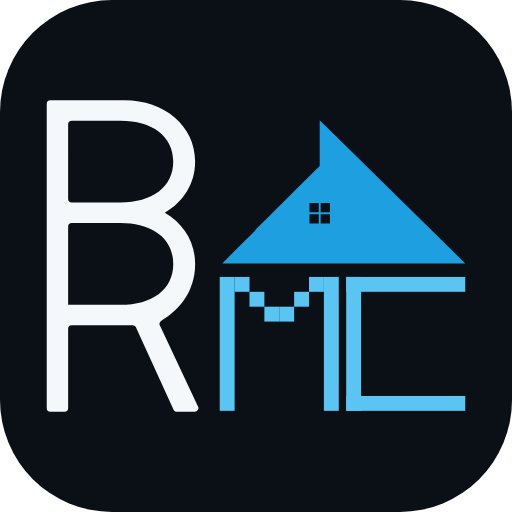
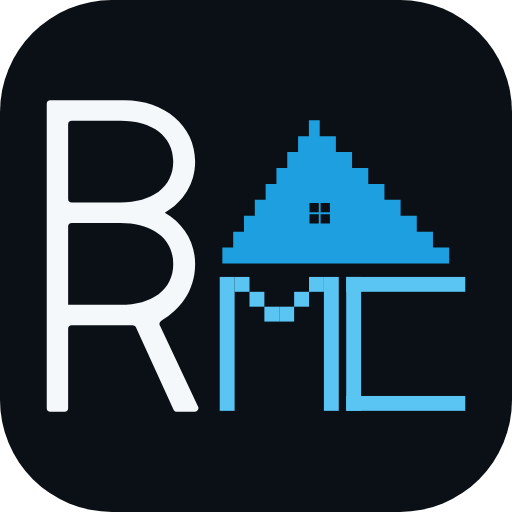
Step the Minecraft roof onto the block grid
The mark had `MC` drawn on a 16u block grid sitting under the parent's smooth
gable — two drawings in one lockup, and the join showed. The roof is now stepped
onto the same grid: same notched apex, same 45° slopes, same knockout window,
built to the rule the caps are built to.

brAIn is untouched — byte-identical SVGs, byte-identical PNGs — because its
smooth roof over smooth caps was never the problem.

The tests said "every branding SVG carries the same gable path", which was true
when the two apps shared a roof and is now wrong. That splits in two:

- `test_the_mark_is_the_gable` — each app's roof is one path, used everywhere
  that app appears. A second hand-drawn copy is still how a mark drifts.
- `test_each_app_draws_only_its_own_roof` — and neither app may carry the
  other's. A Minecraft square built from a brAIn tile would have passed every
  other check in the file; it fails this one, and it caught the Minecraft panel
  favicon still holding the smooth roof while I was making this change.

The three `bruh-minecraft-glyph-*.svg` files in the kit are deliberately not
installed. They are the stepped roof on its own, with no BR ligature — which is
the one thing this repo committed to not shipping. Nothing here would reference
them, and `test_no_asset_is_the_gable_alone` would fail if they were added.

BRUH Minecraft 1.14.5 → 1.14.6; the artwork ships inside the add-on, so Home
Assistant needs the bump to pull it.
[…]

Changed region(s): [[0.4375, 0.2188, 0.9062, 0.5312]]

diff --git a/bruh-minecraft-server/panel/index.html b/bruh-minecraft-server/panel/index.html
@@ -19,7 +19,7 @@
              says nothing about which add-on this is. It carries its own dark ground
              and corner radius, so it needs no plate behind it and reads the same on
              a light panel as a dark one. Source: branding/minecraft/. -->
-        <svg class="logo" viewBox="0 0 512 512" role="img" aria-label="BRUH Minecraft"><rect width="512" height="512" rx="112" fill="#0B1016"></rect><g transform="translate(46.75 100.23) scale(0.93)"><path d="M159.55,176c0-23.95-12.76-43.53-32.59-55,19.83-11.43,32.59-31.09,32.59-55,0-38.69-33.29-66-75.87-66H4A4,4,0,0,0,0,4V331a4,4,0,0,0,4,4H19a4,4,0,0,0,4-4V245.83A3.84,3.84,0,0,1,26.83,242H92.4a3.93,3.93,0,0,1,3.22,1.69l41,89.62a3.9,3.9,0,0,0,3.21,1.69h19.27a4,4,0,0,0,3.28-6.29L121.81,242.6c-1.57-2.24-.18-4.71,2.17-6.13C141.54,225.88,159.55,206.48,159.55,176ZM23,26a4,4,0,0,1,4-4H79.36C113.11,22,136,38.27,136,66s-22.9,44-56.65,44H27a4,4,0,0,1-4-4ZM79.36,220H23V136a4,4,0,0,1,4-4H79.36c33.75,0,56.65,16.27,56.65,44S113.11,220,79.36,220Z" fill="#F4F8FB" fill-rule="evenodd"></path><path d="M293.5,21.6V70.83S189.86,174.05,188.83,175.5H450.09Zm-1,110.9h-10v-10h10Zm0-12h-10v-10h10Zm12,12h-10v-10h10Zm-10-12v-10h10v10Z" fill="#1E9FE0" fill-rule="evenodd"></path><rect x="186" y="190" width="16" height="144" fill="#5AC4F2"></rect><rect x="298" y="190" width="16" height="144" fill="#5AC4F2"></rect><rect x="202" y="190" width="16" height="16" fill="#5AC4F2"></rect><rect x="282" y="190" width="16" height="16" fill="#5AC4F2"></rect><rect x="218" y="206" width="16" height="16" fill="#5AC4F2"></rect><rect x="266" y="206" width="16" height="16" fill="#5AC4F2"></rect><rect x="234" y="222" width="16" height="16" fill="#5AC4F2"></rect><rect x="250" y="222" width="16" height="16" fill="#5AC4F2"></rect><rect x="322" y="190" width="128" height="16" fill="#5AC4F2"></rect><rect x="322" y="190" width="16" height="144" fill="#5AC4F2"></rect><rect x="322" y="318" width="128" height="16" fill="#5AC4F2"></rect></g></svg>
+        <svg class="logo" viewBox="0 0 512 512" role="img" aria-label="BRUH Minecraft"><rect width="512" height="512" rx="112" fill="#0B1016"></rect><g transform="translate(46.75 100.23) scale(0.93)"><path d="M159.55,176c0-23.95-12.76-43.53-32.59-55,19.83-11.43,32.59-31.09,32.59-55,0-38.69-33.29-66-75.87-66H4A4,4,0,0,0,0,4V331a4,4,0,0,0,4,4H19a4,4,0,0,0,4-4V245.83A3.84,3.84,0,0,1,26.83,242H92.4a3.93,3.93,0,0,1,3.22,1.69l41,89.62a3.9,3.9,0,0,0,3.21,1.69h19.27a4,4,0,0,0,3.28-6.29L121.81,242.6c-1.57-2.24-.18-4.71,2.17-6.13C141.54,225.88,159.55,206.48,159.55,176ZM23,26a4,4,0,0,1,4-4H79.36C113.11,22,136,38.27,136,66s-22.9,44-56.65,44H27a4,4,0,0,1-4-4ZM79.36,220H23V136a4,4,0,0,1,4-4H79.36c33.75,0,56.65,16.27,56.65,44S113.11,220,79.36,220Z" fill="#F4F8FB" fill-rule="evenodd"></path><path d="M188.83,175.5V158.4H200.46V141.3H212.09V124.2H223.72V107.1H235.35V90H246.98V72.9H258.61V55.8H270.24V38.7H281.87V21.6H293.5H293.5V38.7H310.9V55.8H328.3V72.9H345.7V90H363.1V107.1H380.49V124.2H397.89V141.3H415.29V158.4H432.69V175.5H450.09ZM282.5,110.5h10v10h-10Zm12,0h10v10h-10Zm-12,12h10v10h-10Zm12,0h10v10h-10Z" fill="#1E9FE0" fill-rule="evenodd"></path><rect x="186" y="190" width="16" height="144" fill="#5AC4F2"></rect><rect x="298" y="190" width="16" height="144" fill="#5AC4F2"></rect><rect x="202" y="190" width="16" height="16" fill="#5AC4F2"></rect><rect x="282" y="190" width="16" height="16" fill="#5AC4F2"></rect><rect x="218" y="206" width="16" height="16" fill="#5AC4F2"></rect><rect x="266" y="206" width="16" height="16" fill="#5AC4F2"></rect><rect x="234" y="222" width="16" height="16" fill="#5AC4F2"></rect><rect x="250" y="222" width="16" height="16" fill="#5AC4F2"></rect><rect x="322" y="190" width="128" height="16" fill="#5AC4F2"></rect><rect x="322" y="190" width="16" height="144" fill="#5AC4F2"></rect><rect x="322" y="318" width="128" height="16" fill="#5AC4F2"></rect></g></svg>
         <div>
           <h1>BRUH Minecraft</h1>
           <p id="brand-subtitle">Loading…</p>

diff --git a/tests/test_brain_addon.py b/tests/test_brain_addon.py
@@ -140,16 +140,45 @@ class TestPanelBranding(unittest.TestCase):
                      "M362,198 L377,198 L486,333"):  # N diagonal
             self.assertIn(part, self.html, "the wordmark lost a glyph")
 
+    # brAIn's roof is the parent's own path, unmodified. Minecraft's is the
+    # same roof redrawn on the block grid — same apex, same 45° slopes, same
+    # knockout window, stepped instead of smooth — so that the roof and the MC
+    # caps are built to one rule rather than two.
+    SMOOTH_GABLE = "M293.5,21.6V70.83S189.86,174.05,188.83,175.5H450.09Z"
+    BLOCKY_GABLE = "M188.83,175.5V158.4H200.46"
+
     def test_the_mark_is_the_gable(self):
-        """The brand mark is a gable lifted from the parent BRUH logo, and it
-        is the same path everywhere — inline in the bar, in the favicon, in
-        every rendered PNG. A second hand-drawn copy is how a mark drifts."""
-        gable = "M293.5,21.6V70.83S189.86,174.05,188.83,175.5H450.09Z"
-        self.assertIn(gable, self.html, "the top bar isn't drawing the gable")
-        self.assertIn(gable, (PANEL / "favicon.svg").read_text())
-        for svg in sorted((BASE_DIR / "branding").glob("*/*.svg")):
-            self.assertIn(gable, svg.read_text(),
-                          f"{svg.name} does not carry the shared gable path")
+        """Each app's roof is one path, used everywhere that app appears —
+        inline in the bar, in the favicon, in every rendered PNG. A second
+        hand-drawn copy is how a mark drifts.
+
+        The two apps do not share the *same* roof any more, and that is the
+        point: an app whose caps are blocky and whose roof is smooth is two
+        drawings in one lockup."""
+        self.assertIn(self.SMOOTH_GABLE, self.html, "the top bar isn't drawing the gable")
+        self.assertIn(self.SMOOTH_GABLE, (PANEL / "favicon.svg").read_text())
+
+        for app, gable in (("brain", self.SMOOTH_GABLE), ("minecraft", self.BLOCKY_GABLE)):
+            for svg in sorted((BASE_DIR / "branding" / app).glob("*.svg")):
+                self.assertIn(gable, svg.read_text(),
+                              f"{svg.name} does not carry {app}'s gable path")
+
+    def test_each_app_draws_only_its_own_roof(self):
+        """The blocky roof belongs to Minecraft and the smooth one to brAIn.
+        Mixing them is the failure this catches: a Minecraft square built from
+        a brAIn tile would pass every other check here."""
+        for app, mine, theirs in (("brain", self.SMOOTH_GABLE, self.BLOCKY_GABLE),
+                                  ("minecraft", self.BLOCKY_GABLE, self.SMOOTH_GABLE)):
+            for svg in sorted((BASE_DIR / "branding" / app).glob("*.svg")):
+                body = svg.read_text()
+                self.assertIn(mine, body, f"{svg.name} lost its own roof")
+                self.assertNotIn(theirs, body, f"{svg.name} is wearing the other app's roof")
+
+        mc_favicon = (BASE_DIR / "bruh-minecraft-server" / "panel" / "favicon.svg").read_text()
+        self.assertIn(self.BLOCKY_GABLE, mc_favicon,
+                      "the Minecraft favicon is not the blocky roof")
+        self.assertNotIn(self.SMOOTH_GABLE, mc_favicon,
+                         "the Minecraft favicon is wearing brAIn's roof")
 
     def test_no_asset_is_the_gable_alone(self):
         """The gable is the *family* mark: it says BRUH and says nothing about
@@ -180,9 +209,10 @@ class TestPanelBranding(unittest.TestCase):
                 self.assertTrue(path.exists(), f"missing {path.relative_to(BASE_DIR)}")
 
     def test_the_two_apps_are_told_apart_by_their_caps(self):
-        """What distinguishes the marks is the small caps, not the roof. brAIn
-        sets AIN smooth and keeps the parent's signal rules; Minecraft sets MC
-        on a 16u block grid and drops the signal so the blocks carry it alone.
+        """What distinguishes the marks is the drawing of the small caps and
+        the roof together. brAIn sets AIN smooth over the parent's smooth gable
+        and keeps its signal rules; Minecraft sets MC on a 16u block grid under
+        a stepped roof, and drops the signal so the blocks carry it alone.
         Swapping either is how the two apps stop being distinguishable."""
         brain = (BASE_DIR / "branding" / "brain" / "brain-logo-ondark.svg").read_text()
         mc = (BASE_DIR / "branding" / "minecraft" / "bruh-minecraft-logo-ondark.svg").read_text()

diff --git a/CLAUDE.md b/CLAUDE.md
@@ -30,7 +30,7 @@ BRUH Terminal (`bruh-claude-terminal/`) and BRUH Insights (`bruh-insights/`) wer
 - **Deleted cards do not come back.** There is no restore list: brAIn proposes the cards a given home should have, so the answer to "I want that card again" is to ask for it and let brAIn build it for the house it now knows. Shipped categories are still `hidden` under the hood because their definitions live in the code, but that is a mechanism, not an offer.
 - **Naming**: prefer `brain`/`ha` over `claude` in anything we own. `CLAUDE.md`, `CLAUDE_CONFIG_DIR`, the `claude` user, and the `claude-run` wrapper keep the name because they *are* Claude Code's file, env var, user, and binary. Everything else (`panel/engine.py`, `scripts/brain-*.sh`) is brAIn-named.
 
-Shared brand sources live in `branding/brain/` and `branding/minecraft/` (twelve SVGs each, plus `render.mjs`, which regenerates every PNG in the repo) and `brands/` (home-assistant/brands submission assets); cross-add-on tests live in `tests/`. Both marks are the same lockup — the parent's BR ligature and its gable, which doubles as the `A` — and what tells the two apps apart is the small caps: brAIn sets `AIN` smooth and keeps the parent's signal rules, BRUH Minecraft sets `MC` on a 16u block grid and drops the signal so the blocks carry it. Never redraw either, and never recolour the roof away from azure. **Nothing ships the gable on its own** — not an add-on icon, not a favicon, not a panel header. The roof is the family mark; it says BRUH and says nothing about which add-on you are looking at, so two add-ons wearing it in the same sidebar are two add-ons nobody can tell apart. That is what the square lockups are for, and `test_no_asset_is_the_gable_alone` is what keeps it true. The panel's top bar carries the full wordmark inline, split into `.wm-ink` / `.wm-roof` / `.wm-ai` / `.wm-signal` so one file serves a light and a dark bar.
+Shared brand sources live in `branding/brain/` and `branding/minecraft/` (twelve SVGs each, plus `render.mjs`, which regenerates every PNG in the repo) and `brands/` (home-assistant/brands submission assets); cross-add-on tests live in `tests/`. Both marks are the same lockup — the parent's BR ligature, and a gable that doubles as the `A` — and what tells the two apps apart is how the roof and the small caps are *drawn*: brAIn keeps the parent's smooth gable, sets `AIN` smooth, and carries its signal rules; BRUH Minecraft steps the same roof onto a 16u block grid, sets `MC` on it, and drops the signal so the blocks carry it. The two roofs are deliberately different paths — a lockup with blocky caps under a smooth roof is two drawings, and `test_each_app_draws_only_its_own_roof` is what stops one app wearing the other's. Never redraw either, and never recolour the roof away from azure. **Nothing ships the gable on its own** — not an add-on icon, not a favicon, not a panel header. The roof is the family mark; it says BRUH and says nothing about which add-on you are looking at, so two add-ons wearing it in the same sidebar are two add-ons nobody can tell apart. That is what the square lockups are for, and `test_no_asset_is_the_gable_alone` is what keeps it true. The panel's top bar carries the full wordmark inline, split into `.wm-ink` / `.wm-roof` / `.wm-ai` / `.wm-signal` so one file serves a light and a dark bar.
 
 **The top bar has two shapes and no third.** At ≥1240px it is one 56px row; below that it is the two-row bar — status and actions on top, the five tabs on a full-width strip beneath with each name under its icon. There was briefly a third band (960–1239px: one row, labels deleted, tabs shrunk to glyphs) and it was the worst possible one to have, because it is what a laptop with the HA sidebar open renders at — the compromise shape was the one most people saw, and widening the window made the tabs grow. **No width gets a row of bare glyphs.** Nothing in the bar may shrink (`.topbar > * { flex: none }`), so a fit is binary and an overflow is something a test can see; nothing hides its own words to fit, either. What gives way is the row, not the label. Tabs cap at 168px and centre so a 1200px strip isn't five 240px targets around a 20px glyph. Every target is ≥44px (chips ≥40px); adding anything to the bar moves the measured widths, so re-run `node tests/manual/measure-topbar.mjs` (Playwright; `CHROMIUM_PATH` if the browser isn't where it expects) and take the breakpoints from what it reports rather than guessing. It measures three bar states per width (running / paused / failed login) because none is a superset of the others, and it fails on any target under the floor as well as on overflow. Panel heights come from `--bar-h`, which the panel remeasures at runtime. **A status chip that is permanently green does not belong there** — the auth chip renders only for trouble, and the space it used to hold pays for the usage pill's second number (`Session x% · Week y%`, each labelled in the bar).
 

diff --git a/branding/README.md b/branding/README.md
@@ -27,7 +27,7 @@ unmodified from `bruh-logo-dark.svg`:
 | Element | Source |
 | --- | --- |
 | `BR` ligature | the parent's own single path — B stacked on R, one continuous stem, the bottom of the B is the top of the R |
-| Gable | the parent's own roof path — notched asymmetric apex, 45° slopes, 2×2 window as a knockout |
+| Gable | the parent's own roof — notched asymmetric apex, 45° slopes, 2×2 window as a knockout. brAIn uses the path unmodified; BRUH Minecraft steps it onto the 16u block grid, same apex and same slopes |
 
 What identifies each app is the **treatment of the small caps**, set on the parent's
 own metrics — cap height `135–144`, baseline `333`, and the parent's `14.5u` gap
@@ -35,8 +35,10 @@ between the eave and the cap line:
 
 - **BRain** — smooth monoline caps, `AI` in azure. Carries the parent's three
   signal rules and bubbles in the wedge between the R and the roof.
-- **BRUH Minecraft** — the same lockup with `MC` drawn on a 16u block grid, and the
-  signal motif dropped so the blocks and the roof carry it alone.
+- **BRUH Minecraft** — the same lockup with `MC` drawn on a 16u block grid *and the
+  roof stepped onto the same grid*, with the signal motif dropped so the blocks
+  carry it alone. Blocky caps under a smooth roof were two drawings in one
+  lockup; now the whole mark is built to one rule.
 
 Newly drawn in both: the small caps only. The source has no A/I/N/M/C outlines to
 lift, so they are built on the parent's stroke-to-cap ratio (`0.111`, measured from
@@ -107,8 +109,9 @@ is still the answer; it goes soft, but it is never the wrong app. This is why
 - Never separate `AI` from BRain, or `MC` from Minecraft, and never set them in a
   different weight from the rest of the word.
 - BRain keeps its signal rules and bubbles; Minecraft does not. Don't swap them.
-- BRain's caps are smooth, Minecraft's are blocky. That contrast is the system —
-  don't blur it by making one look like the other.
+- BRain is smooth throughout, Minecraft is stepped throughout — caps *and* roof.
+  That contrast is the system; don't blur it, and never put one app's roof under
+  the other's caps.
 - No shadows, gradients, outlines, rotation or skew.
 - The apex notch is inherited and deliberate. Do not straighten it.
 - Clear space: **68u** at master scale (half the small-cap height) on all four sides.

diff --git a/bruh-minecraft-server/CHANGELOG.md b/bruh-minecraft-server/CHANGELOG.md
@@ -5,6 +5,16 @@ All notable changes to the **BRUH Minecraft Server** add-on are documented here.
 The format follows [Keep a Changelog](https://keepachangelog.com/en/1.1.0/) and this
 project adheres to [Semantic Versioning](https://semver.org/spec/v2.0.0.html).
 
+## 1.14.6
+
+### Changed
+
+- **The roof is blocky now too.** The mark had `MC` on a 16u block grid sitting
+  under the parent's smooth gable — two drawings in one lockup. The roof is
+  stepped onto the same grid, keeping the apex, the 45° slopes and the knockout
+  window, so the whole mark is built to one rule. brAIn keeps the smooth roof;
+  a test now fails if either app is caught wearing the other's.
+
 ## 1.14.5
 
 ### Changed
